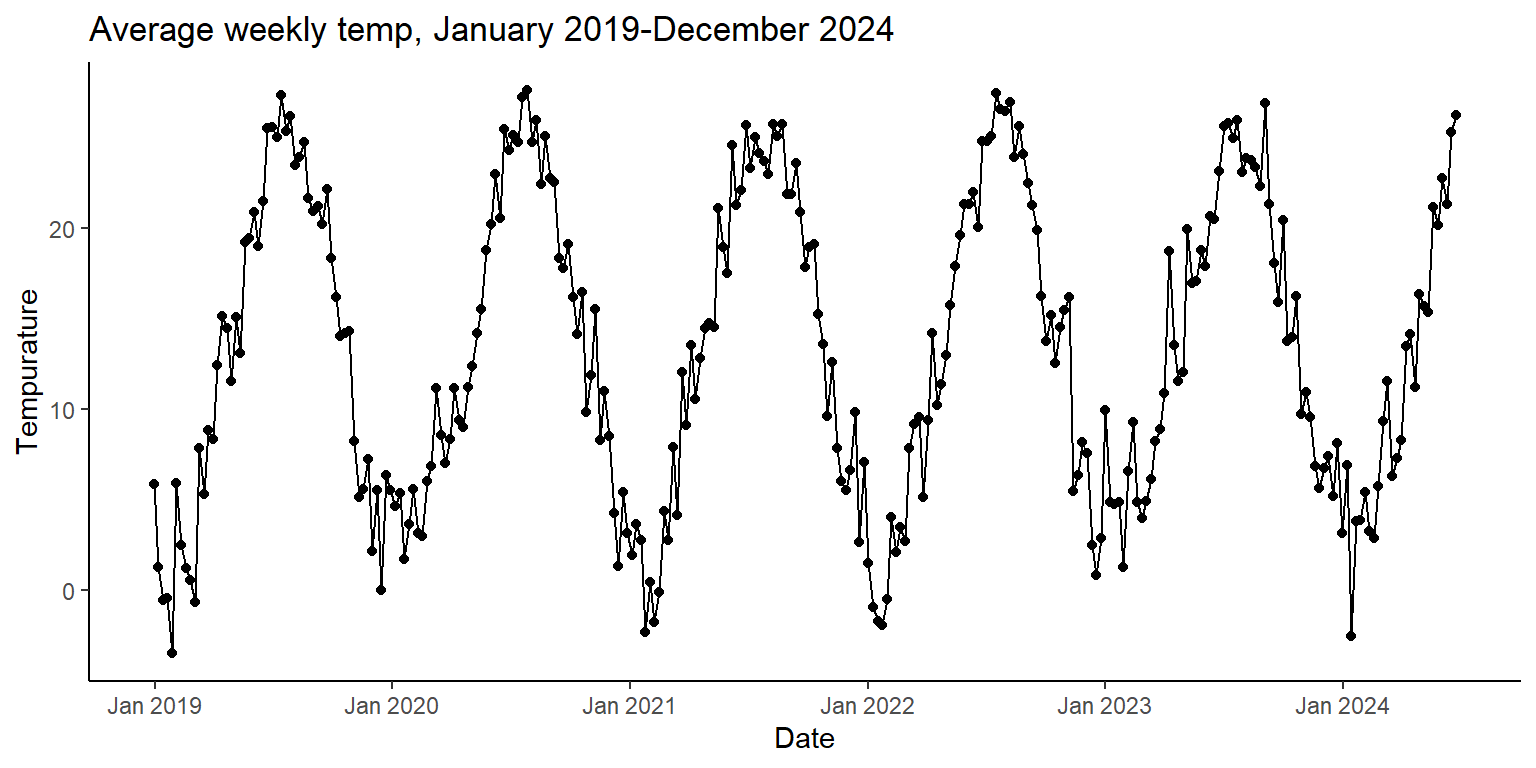
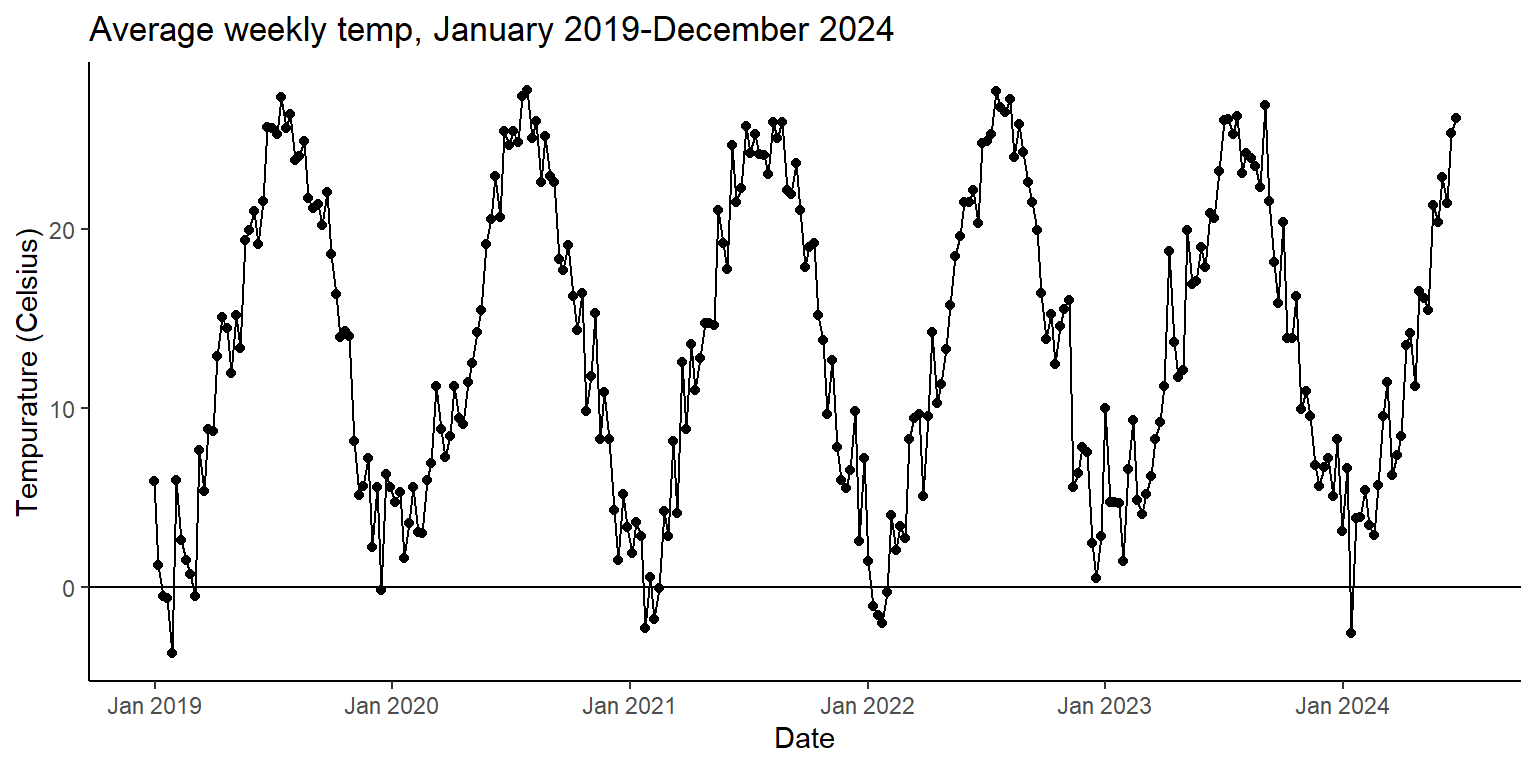
add heatmap

diff --git a/docs/data.html b/docs/data.html
@@ -20,6 +20,40 @@ ul.task-list li input[type="checkbox"] {
   margin: 0 0.8em 0.2em -1em; /* quarto-specific, see https://github.com/quarto-dev/quarto-cli/issues/4556 */ 
   vertical-align: middle;
 }
+/* CSS for syntax highlighting */
+pre > code.sourceCode { white-space: pre; position: relative; }
+pre > code.sourceCode > span { line-height: 1.25; }
+pre > code.sourceCode > span:empty { height: 1.2em; }
+.sourceCode { overflow: visible; }
+code.sourceCode > span { color: inherit; text-decoration: inherit; }
+div.sourceCode { margin: 1em 0; }
+pre.sourceCode { margin: 0; }
+@media screen {
+div.sourceCode { overflow: auto; }
+}
+@media print {
+pre > code.sourceCode { white-space: pre-wrap; }
+pre > code.sourceCode > span { display: inline-block; text-indent: -5em; padding-left: 5em; }
+}
+pre.numberSource code
+  { counter-reset: source-line 0; }
+pre.numberSource code > span
+  { position: relative; left: -4em; counter-increment: source-line; }
+pre.numberSource code > span > a:first-child::before
+  { content: counter(source-line);
+    position: relative; left: -1em; text-align: right; vertical-align: baseline;
+    border: none; display: inline-block;
+    -webkit-touch-callout: none; -webkit-user-select: none;
+    -khtml-user-select: none; -moz-user-select: none;
+    -ms-user-select: none; user-select: none;
+    padding: 0 4px; width: 4em;
+  }
+pre.numberSource { margin-left: 3em;  padding-left: 4px; }
+div.sourceCode
+  {   }
+@media screen {
+pre > code.sourceCode > span > a:first-child::before { text-decoration: underline; }
+}
 </style>
 
 
@@ -178,14 +212,58 @@ ul.task-list li input[type="checkbox"] {
 
 <section id="description" class="level2" data-number="2.1">
 <h2 data-number="2.1" class="anchored" data-anchor-id="description"><span class="header-section-number">2.1</span> Description</h2>
-<p>We are basing our analysis on two datasets, a dataset of taxi use in New York and historical weather data. For both datasets, we will limit our analysis to 2019–August 2024, in the interest of trying to catch about a year of pre-pandemic norms to help interpret pandemic and post-pandemic use of taxis.</p>
-<p>The taxi data are provided by New York’s <a href="https://www.nyc.gov/site/tlc/index.page">Taxi and Limousine Commission</a>. They <a href="https://www.nyc.gov/site/tlc/about/tlc-trip-record-data.page">provide taxi data</a>, in <a href="https://parquet.apache.org/">parquet</a> format, going back to 2009. Since February of 2019 they have also included data on trips serviced by companies like Lyft and Uber, which are classified as “high-volume for-hire vehicle” (HVFHV) trips. The data are updated monthly, with a two-month lag; however, at the time of submission, only data through August 2024 were available. Our focus is on yellow taxi and HVFHV trips, because our focus is on intra-Manhattan trips. Only yellow cabs can pick up passengers in most of Manhattan, so we are ignoring green cabs and regular for-hire vehicles (town cars and limousines). Yellow cab data have <a href="https://www.nyc.gov/assets/tlc/downloads/pdf/data_dictionary_trip_records_yellow.pdf">19 columns</a>, of which the pertient columns for us are pickup/dropoff date and time (<code>tpep_pickup_datetime</code>/<code>tpep_dropoff_datetime</code> in a datetime format), the pickup/dropoff locations (<code>PULocationID</code>/<code>DOLocationID</code> in integer format, corresponding to <a href="https://d37ci6vzurychx.cloudfront.net/misc/taxi_zone_lookup.csv">NYC taxi zones</a>) in order to filter on Manhattan-only trips, passenger count (<code>Passenger_count</code> in integer format), fare amount (<code>Fare_amount</code> in integer format), and tip amount (<code>Tip_amount</code> in integer format).</p>
-<p>The historical weather data are provided by the <a href="https://www.ncei.noaa.gov/products/global-historical-climatology-network-hourly">Global Historical Climate Network hourly (GHCNh)</a>, which provides hourly weather data going back over two centuries for New York City. We will be limiting ourselves to 2019–present, which comes in <a href="https://www.ncei.noaa.gov/oa/global-historical-climatology-network/index.html#hourly/access/by-year/">annual parquet files for download by station</a>. Our station, <code>KNYC0</code>, is listed in the GHCNh as <code>USW00094728</code>, and it is the weather station in Central Park. The data come in over 200 columns to account for the variability that can occur in the terse <a href="https://en.wikipedia.org/wiki/METAR">METAR</a> report for airplanes, which is also included under <code>remarks</code>. The government provides a <a href="https://www.ncei.noaa.gov/oa/global-historical-climatology-network/hourly/doc/ghcnh_DOCUMENTATION.pdf">codebook</a>. We may simply feed the reports to the <a href="https://github.com/python-metar/python-metar">python-metar</a> library, which parses the reports for us. As we are interested in what conditions determine a “nice” day for not using a taxi, we want to keep as much data from the weather report as possible, including temperature, precipitation, sky cover, snow, humidity, and so on.</p>
+<p>We are basing our analysis on two datasets, a dataset of taxi use in New York and historical weather data. For both datasets, we will limit our analysis to 2019-01-01 00:00:00 – 2024-06-25 23:00:00, in the interest of trying to catch about a year of pre-pandemic norms to help interpret pandemic and post-pandemic use of taxis. The taxi data only go to August, but the weather data only go through most of June this year. We are basing our analysis on two datasets, a dataset of taxi use in New York and historical weather data. For both datasets, we will limit our analysis to 2019–August 2024, in the interest of trying to catch about a year of pre-pandemic norms to help interpret pandemic and post-pandemic use of taxis.</p>
+<p>The taxi data are provided by New York’s <a href="https://www.nyc.gov/site/tlc/index.page">Taxi and Limousine Commission</a>. They <a href="https://www.nyc.gov/site/tlc/about/tlc-trip-record-data.page">provide taxi data</a>, in <a href="https://parquet.apache.org/">parquet</a> format, going back to 2009. Since February of 2019, they have also included data on trips serviced by companies like Lyft and Uber, which are classified as “high-volume for-hire vehicle” (HVFHV) trips. The data are updated monthly, with a two-month lag. Our focus is on yellow taxi and HVFHV trips, because our focus is on intra-Manhattan trips. Only yellow cabs can pick up passengers in most of Manhattan, so we are ignoring green cabs and regular for-hire vehicles (town cars and limousines). Yellow cab data have <a href="https://www.nyc.gov/assets/tlc/downloads/pdf/data_dictionary_trip_records_yellow.pdf">19 columns</a>, and FHVHV data have <a href="https://www.nyc.gov/assets/tlc/downloads/pdf/data_dictionary_trip_records_hvfhs.pdf">24 columns</a>. With our Python scripts, we consolidate the data to create aggregated hourly statistics on trip duration, trip distance, fare amount, and tip amount. The taxi data are provided by New York’s <a href="https://www.nyc.gov/site/tlc/index.page">Taxi and Limousine Commission</a>. They <a href="https://www.nyc.gov/site/tlc/about/tlc-trip-record-data.page">provide taxi data</a>, in <a href="https://parquet.apache.org/">parquet</a> format, going back to 2009. Since February of 2019 they have also included data on trips serviced by companies like Lyft and Uber, which are classified as “high-volume for-hire vehicle” (HVFHV) trips. The data are updated monthly, with a two-month lag; however, at the time of submission, only data through August 2024 were available. Our focus is on yellow taxi and HVFHV trips, because our focus is on intra-Manhattan trips. Only yellow cabs can pick up passengers in most of Manhattan, so we are ignoring green cabs and regular for-hire vehicles (town cars and limousines). Yellow cab data have <a href="https://www.nyc.gov/assets/tlc/downloads/pdf/data_dictionary_trip_records_yellow.pdf">19 columns</a>, of which the pertient columns for us are pickup/dropoff date and time (<code>tpep_pickup_datetime</code>/<code>tpep_dropoff_datetime</code> in a datetime format), the pickup/dropoff locations (<code>PULocationID</code>/<code>DOLocationID</code> in integer format, corresponding to <a href="https://d37ci6vzurychx.cloudfront.net/misc/taxi_zone_lookup.csv">NYC taxi zones</a>) in order to filter on Manhattan-only trips, passenger count (<code>Passenger_count</code> in integer format), fare amount (<code>Fare_amount</code> in integer format), and tip amount (<code>Tip_amount</code> in integer format).</p>
+<p>The historical weather data are provided by the <a href="https://www.ncei.noaa.gov/products/global-historical-climatology-network-hourly">Global Historical Climate Network hourly (GHCNh)</a>, which provides hourly weather data going back over two centuries for New York City. The data come in <a href="https://www.ncei.noaa.gov/oa/global-historical-climatology-network/index.html#hourly/access/by-year/">annual parquet files for download by station</a>. Our station, <code>KNYC0</code>, is listed in the GHCNh as <code>USW00094728</code>, and it is the weather station in Central Park. The data come in over 200 columns to account for the variability that can occur in the terse <a href="https://en.wikipedia.org/wiki/METAR">METAR</a> report for airplanes, which is also included under <code>remarks</code>. The government provides a <a href="https://www.ncei.noaa.gov/oa/global-historical-climatology-network/hourly/doc/ghcnh_DOCUMENTATION.pdf">codebook</a> to describe the remaining data. As we are interested in what conditions determine a “nice” day for not using a taxi, we want to keep as much data from the weather report as possible, including temperature, precipitation, sky cover, snow, humidity, and so on. The historical weather data are provided by the <a href="https://www.ncei.noaa.gov/products/global-historical-climatology-network-hourly">Global Historical Climate Network hourly (GHCNh)</a>, which provides hourly weather data going back over two centuries for New York City. We will be limiting ourselves to 2019–present, which comes in <a href="https://www.ncei.noaa.gov/oa/global-historical-climatology-network/index.html#hourly/access/by-year/">annual parquet files for download by station</a>. Our station, <code>KNYC0</code>, is listed in the GHCNh as <code>USW00094728</code>, and it is the weather station in Central Park. The data come in over 200 columns to account for the variability that can occur in the terse <a href="https://en.wikipedia.org/wiki/METAR">METAR</a> report for airplanes, which is also included under <code>remarks</code>. The government provides a <a href="https://www.ncei.noaa.gov/oa/global-historical-climatology-network/hourly/doc/ghcnh_DOCUMENTATION.pdf">codebook</a>. We may simply feed the reports to the <a href="https://github.com/python-metar/python-metar">python-metar</a> library, which parses the reports for us. As we are interested in what conditions determine a “nice” day for not using a taxi, we want to keep as much data from the weather report as possible, including temperature, precipitation, sky cover, snow, humidity, and so on.</p>
 </section>
 <section id="missing-value-analysis" class="level2" data-number="2.2">
 <h2 data-number="2.2" class="anchored" data-anchor-id="missing-value-analysis"><span class="header-section-number">2.2</span> Missing value analysis</h2>
+<p>The taxi data is notoriously (as in, persistently) messy, registering trips outside the bounds of the asserted date and giving results that seem extremely unlikely, like</p>
 <p>Describe any patterns you discover in missing values. If no values are missing, graphs should still be included showing that.</p>
 <p>(suggested: 2 graphs plus commentary)</p>
+<div class="cell">
+<details class="code-fold">
+<summary>Code</summary>
+<div class="sourceCode cell-code" id="cb1"><pre class="sourceCode r code-with-copy"><code class="sourceCode r"><span id="cb1-1"><a href="#cb1-1" aria-hidden="true" tabindex="-1"></a><span class="fu">library</span>(ggplot2)</span>
+<span id="cb1-2"><a href="#cb1-2" aria-hidden="true" tabindex="-1"></a><span class="fu">library</span>(arrow)</span>
+<span id="cb1-3"><a href="#cb1-3" aria-hidden="true" tabindex="-1"></a><span class="fu">library</span>(dplyr)</span>
+<span id="cb1-4"><a href="#cb1-4" aria-hidden="true" tabindex="-1"></a><span class="fu">library</span>(lubridate)</span>
+<span id="cb1-5"><a href="#cb1-5" aria-hidden="true" tabindex="-1"></a><span class="fu">library</span>(scales)</span>
+<span id="cb1-6"><a href="#cb1-6" aria-hidden="true" tabindex="-1"></a><span class="fu">library</span>(tidyr)</span>
+<span id="cb1-7"><a href="#cb1-7" aria-hidden="true" tabindex="-1"></a>df <span class="ot">&lt;-</span> <span class="fu">read_parquet</span>(<span class="st">"data/complete_weather_and_taxi_data.parquet"</span>)</span></code><button title="Copy to Clipboard" class="code-copy-button"><i class="bi"></i></button></pre></div>
+</details>
+</div>
+<div class="cell">
+<details class="code-fold">
+<summary>Code</summary>
+<div class="sourceCode cell-code" id="cb2"><pre class="sourceCode r code-with-copy"><code class="sourceCode r"><span id="cb2-1"><a href="#cb2-1" aria-hidden="true" tabindex="-1"></a>heatmap_data <span class="ot">&lt;-</span> df <span class="sc">|&gt;</span></span>
+<span id="cb2-2"><a href="#cb2-2" aria-hidden="true" tabindex="-1"></a>    <span class="fu">mutate</span>(<span class="at">week_start=</span>lubridate<span class="sc">::</span><span class="fu">floor_date</span>(date, <span class="at">unit=</span><span class="st">"week"</span>),</span>
+<span id="cb2-3"><a href="#cb2-3" aria-hidden="true" tabindex="-1"></a>        <span class="at">week =</span> lubridate<span class="sc">::</span><span class="fu">week</span>(date),</span>
+<span id="cb2-4"><a href="#cb2-4" aria-hidden="true" tabindex="-1"></a>        <span class="at">year =</span> lubridate<span class="sc">::</span><span class="fu">year</span>(date)) <span class="sc">|&gt;</span></span>
+<span id="cb2-5"><a href="#cb2-5" aria-hidden="true" tabindex="-1"></a>    <span class="fu">group_by</span>(year, week) <span class="sc">|&gt;</span></span>
+<span id="cb2-6"><a href="#cb2-6" aria-hidden="true" tabindex="-1"></a>    <span class="fu">summarize</span>(<span class="at">n_missing=</span><span class="fu">sum</span>(<span class="fu">is.na</span>(temperature)))</span>
+<span id="cb2-7"><a href="#cb2-7" aria-hidden="true" tabindex="-1"></a></span>
+<span id="cb2-8"><a href="#cb2-8" aria-hidden="true" tabindex="-1"></a><span class="fu">ggplot</span>(heatmap_data, <span class="fu">aes</span>(<span class="at">x =</span> week, <span class="at">y =</span> year, <span class="at">fill =</span> n_missing)) <span class="sc">+</span></span>
+<span id="cb2-9"><a href="#cb2-9" aria-hidden="true" tabindex="-1"></a>  <span class="fu">geom_tile</span>(<span class="at">color =</span> <span class="st">"white"</span>) <span class="sc">+</span></span>
+<span id="cb2-10"><a href="#cb2-10" aria-hidden="true" tabindex="-1"></a>  <span class="fu">scale_fill_gradient</span>(<span class="at">low =</span> <span class="st">"white"</span>, <span class="at">high =</span> <span class="st">"red"</span>, <span class="at">name =</span> <span class="st">"Missing Count"</span>) <span class="sc">+</span></span>
+<span id="cb2-11"><a href="#cb2-11" aria-hidden="true" tabindex="-1"></a>  <span class="fu">scale_x_continuous</span>(<span class="at">breaks =</span> <span class="fu">seq</span>(<span class="dv">1</span>, <span class="dv">52</span>, <span class="at">by =</span> <span class="dv">4</span>)) <span class="sc">+</span> </span>
+<span id="cb2-12"><a href="#cb2-12" aria-hidden="true" tabindex="-1"></a>  <span class="fu">scale_y_continuous</span>(<span class="at">breaks =</span> <span class="fu">seq</span>(<span class="dv">2019</span>, <span class="dv">2024</span>, <span class="at">by=</span><span class="dv">1</span>))<span class="sc">+</span></span>
+<span id="cb2-13"><a href="#cb2-13" aria-hidden="true" tabindex="-1"></a>  <span class="fu">labs</span>(</span>
+<span id="cb2-14"><a href="#cb2-14" aria-hidden="true" tabindex="-1"></a>    <span class="at">title =</span> <span class="st">"Number of missing temperature observations by date"</span>,</span>
+<span id="cb2-15"><a href="#cb2-15" aria-hidden="true" tabindex="-1"></a>    <span class="at">x =</span> <span class="st">"Week"</span>,</span>
+<span id="cb2-16"><a href="#cb2-16" aria-hidden="true" tabindex="-1"></a>    <span class="at">y =</span> <span class="st">"Year"</span></span>
+<span id="cb2-17"><a href="#cb2-17" aria-hidden="true" tabindex="-1"></a>  ) <span class="sc">+</span></span>
+<span id="cb2-18"><a href="#cb2-18" aria-hidden="true" tabindex="-1"></a>  <span class="fu">theme_classic</span>() <span class="sc">+</span></span>
+<span id="cb2-19"><a href="#cb2-19" aria-hidden="true" tabindex="-1"></a>  <span class="fu">theme</span>(<span class="at">axis.text.x =</span> <span class="fu">element_text</span>(<span class="at">angle =</span> <span class="dv">45</span>, <span class="at">hjust =</span> <span class="dv">1</span>))</span></code><button title="Copy to Clipboard" class="code-copy-button"><i class="bi"></i></button></pre></div>
+</details>
+<div class="cell-output-display">
+<div>
+<figure class="figure">
+<p><img src="data_files/figure-html/unnamed-chunk-2-1.png" class="img-fluid figure-img" width="672"></p>
+</figure>
+</div>
+</div>
+</div>
 
 
 </section>

diff --git a/docs/index.html b/docs/index.html
@@ -285,67 +285,17 @@ pre > code.sourceCode > span > a:first-child::before { text-decoration: underlin
 <span id="cb3-10"><a href="#cb3-10" aria-hidden="true" tabindex="-1"></a>    <span class="fu">ggplot</span>(<span class="fu">aes</span>(<span class="at">x=</span>week_start, <span class="at">y=</span>avg_temp_day), <span class="at">color=</span><span class="st">"salmon"</span>) <span class="sc">+</span></span>
 <span id="cb3-11"><a href="#cb3-11" aria-hidden="true" tabindex="-1"></a>        <span class="fu">geom_point</span>() <span class="sc">+</span></span>
 <span id="cb3-12"><a href="#cb3-12" aria-hidden="true" tabindex="-1"></a>        <span class="fu">geom_line</span>() <span class="sc">+</span> </span>
-<span id="cb3-13"><a href="#cb3-13" aria-hidden="true" tabindex="-1"></a>        <span class="fu">scale_x_date</span>(<span class="at">date_labels =</span> <span class="st">"%b %Y"</span>, <span class="at">date_breaks =</span> <span class="st">"1 year"</span>) <span class="sc">+</span></span>
-<span id="cb3-14"><a href="#cb3-14" aria-hidden="true" tabindex="-1"></a>        <span class="fu">labs</span>(<span class="at">title=</span><span class="st">"Average weekly temp, January 2019-December 2024"</span>,</span>
-<span id="cb3-15"><a href="#cb3-15" aria-hidden="true" tabindex="-1"></a>             <span class="at">x =</span> <span class="st">"Date"</span>, </span>
-<span id="cb3-16"><a href="#cb3-16" aria-hidden="true" tabindex="-1"></a>             <span class="at">y =</span> <span class="st">"Tempurature"</span>) <span class="sc">+</span></span>
-<span id="cb3-17"><a href="#cb3-17" aria-hidden="true" tabindex="-1"></a>        <span class="fu">theme_classic</span>()</span></code><button title="Copy to Clipboard" class="code-copy-button"><i class="bi"></i></button></pre></div>
+<span id="cb3-13"><a href="#cb3-13" aria-hidden="true" tabindex="-1"></a>        <span class="fu">geom_hline</span>(<span class="at">yintercept=</span><span class="dv">0</span>)<span class="sc">+</span></span>
+<span id="cb3-14"><a href="#cb3-14" aria-hidden="true" tabindex="-1"></a>        <span class="fu">scale_x_date</span>(<span class="at">date_labels =</span> <span class="st">"%b %Y"</span>, <span class="at">date_breaks =</span> <span class="st">"1 year"</span>) <span class="sc">+</span></span>
+<span id="cb3-15"><a href="#cb3-15" aria-hidden="true" tabindex="-1"></a>        <span class="fu">labs</span>(<span class="at">title=</span><span class="st">"Average weekly temp, January 2019-December 2024"</span>,</span>
+<span id="cb3-16"><a href="#cb3-16" aria-hidden="true" tabindex="-1"></a>             <span class="at">x =</span> <span class="st">"Date"</span>, </span>
+<span id="cb3-17"><a href="#cb3-17" aria-hidden="true" tabindex="-1"></a>             <span class="at">y =</span> <span class="st">"Tempurature (Celsius)"</span>) <span class="sc">+</span></span>
+<span id="cb3-18"><a href="#cb3-18" aria-hidden="true" tabindex="-1"></a>        <span class="fu">theme_classic</span>()</span></code><button title="Copy to Clipboard" class="code-copy-button"><i class="bi"></i></button></pre></div>
 </details>
 <div class="cell-output-display">
 <div>
 <figure class="figure">
 <p><img src="index_files/figure-html/unnamed-chunk-3-1.png" class="img-fluid figure-img" width="768"></p>
-</figure>
-</div>
-</div>
-</div>
-<div class="cell">
-<details class="code-fold">
-<summary>Code</summary>
-<div class="sourceCode cell-code" id="cb4"><pre class="sourceCode r code-with-copy"><code class="sourceCode r"><span id="cb4-1"><a href="#cb4-1" aria-hidden="true" tabindex="-1"></a><span class="co"># print(df |&gt; filter(is.na(temperature)))</span></span>
-<span id="cb4-2"><a href="#cb4-2" aria-hidden="true" tabindex="-1"></a><span class="co"># df |&gt; filter(is.na(temperature)) |&gt;</span></span>
-<span id="cb4-3"><a href="#cb4-3" aria-hidden="true" tabindex="-1"></a><span class="co">#     mutate(week_start=lubridate::floor_date(date, unit="week"))|&gt;</span></span>
-<span id="cb4-4"><a href="#cb4-4" aria-hidden="true" tabindex="-1"></a><span class="co">#     group_by(week_start)|&gt;</span></span>
-<span id="cb4-5"><a href="#cb4-5" aria-hidden="true" tabindex="-1"></a><span class="co">#     summarize(count_na=n()) |&gt;</span></span>
-<span id="cb4-6"><a href="#cb4-6" aria-hidden="true" tabindex="-1"></a><span class="co">#     print(n=55)</span></span>
-<span id="cb4-7"><a href="#cb4-7" aria-hidden="true" tabindex="-1"></a><span class="co"># df |&gt; filter(is.na(temperature)) |&gt;</span></span>
-<span id="cb4-8"><a href="#cb4-8" aria-hidden="true" tabindex="-1"></a><span class="co">#     mutate(week_start=lubridate::floor_date(date, unit="week"))|&gt;</span></span>
-<span id="cb4-9"><a href="#cb4-9" aria-hidden="true" tabindex="-1"></a><span class="co">#     filter(week_start==as.Date("2019-04-14")) |&gt;</span></span>
-<span id="cb4-10"><a href="#cb4-10" aria-hidden="true" tabindex="-1"></a><span class="co">#     print(n=47)</span></span></code><button title="Copy to Clipboard" class="code-copy-button"><i class="bi"></i></button></pre></div>
-</details>
-</div>
-<div class="cell">
-<details class="code-fold">
-<summary>Code</summary>
-<div class="sourceCode cell-code" id="cb5"><pre class="sourceCode r code-with-copy"><code class="sourceCode r"><span id="cb5-1"><a href="#cb5-1" aria-hidden="true" tabindex="-1"></a>heatmap_data <span class="ot">&lt;-</span> df <span class="sc">|&gt;</span></span>
-<span id="cb5-2"><a href="#cb5-2" aria-hidden="true" tabindex="-1"></a>    <span class="fu">mutate</span>(<span class="at">week_start=</span>lubridate<span class="sc">::</span><span class="fu">floor_date</span>(date, <span class="at">unit=</span><span class="st">"week"</span>),</span>
-<span id="cb5-3"><a href="#cb5-3" aria-hidden="true" tabindex="-1"></a>        <span class="at">week =</span> lubridate<span class="sc">::</span><span class="fu">week</span>(date),</span>
-<span id="cb5-4"><a href="#cb5-4" aria-hidden="true" tabindex="-1"></a>        <span class="at">year =</span> lubridate<span class="sc">::</span><span class="fu">year</span>(date)) <span class="sc">|&gt;</span></span>
-<span id="cb5-5"><a href="#cb5-5" aria-hidden="true" tabindex="-1"></a>    <span class="fu">group_by</span>(year, week) <span class="sc">|&gt;</span></span>
-<span id="cb5-6"><a href="#cb5-6" aria-hidden="true" tabindex="-1"></a>    <span class="fu">summarize</span>(<span class="at">n_missing=</span><span class="fu">sum</span>(<span class="fu">is.na</span>(temperature)))</span></code><button title="Copy to Clipboard" class="code-copy-button"><i class="bi"></i></button></pre></div>
-</details>
-<div class="cell-output cell-output-stderr">
-<pre><code>`summarise()` has grouped output by 'year'. You can override using the
-`.groups` argument.</code></pre>
-</div>
-<details class="code-fold">
-<summary>Code</summary>
-<div class="sourceCode cell-code" id="cb7"><pre class="sourceCode r code-with-copy"><code class="sourceCode r"><span id="cb7-1"><a href="#cb7-1" aria-hidden="true" tabindex="-1"></a><span class="fu">ggplot</span>(heatmap_data, <span class="fu">aes</span>(<span class="at">x =</span> week, <span class="at">y =</span> year, <span class="at">fill =</span> n_missing)) <span class="sc">+</span></span>
-<span id="cb7-2"><a href="#cb7-2" aria-hidden="true" tabindex="-1"></a>  <span class="fu">geom_tile</span>(<span class="at">color =</span> <span class="st">"white"</span>) <span class="sc">+</span></span>
-<span id="cb7-3"><a href="#cb7-3" aria-hidden="true" tabindex="-1"></a>  <span class="fu">scale_fill_gradient</span>(<span class="at">low =</span> <span class="st">"white"</span>, <span class="at">high =</span> <span class="st">"red"</span>, <span class="at">name =</span> <span class="st">"Missing Count"</span>) <span class="sc">+</span></span>
-<span id="cb7-4"><a href="#cb7-4" aria-hidden="true" tabindex="-1"></a>  <span class="fu">scale_x_continuous</span>(<span class="at">breaks =</span> <span class="fu">seq</span>(<span class="dv">1</span>, <span class="dv">52</span>, <span class="at">by =</span> <span class="dv">4</span>)) <span class="sc">+</span>  <span class="co"># Adjust x-axis ticks</span></span>
-<span id="cb7-5"><a href="#cb7-5" aria-hidden="true" tabindex="-1"></a>  <span class="fu">labs</span>(</span>
-<span id="cb7-6"><a href="#cb7-6" aria-hidden="true" tabindex="-1"></a>    <span class="at">title =</span> <span class="st">"Heatmap of Missing Data"</span>,</span>
-<span id="cb7-7"><a href="#cb7-7" aria-hidden="true" tabindex="-1"></a>    <span class="at">x =</span> <span class="st">"Week"</span>,</span>
-<span id="cb7-8"><a href="#cb7-8" aria-hidden="true" tabindex="-1"></a>    <span class="at">y =</span> <span class="st">"Year"</span></span>
-<span id="cb7-9"><a href="#cb7-9" aria-hidden="true" tabindex="-1"></a>  ) <span class="sc">+</span></span>
-<span id="cb7-10"><a href="#cb7-10" aria-hidden="true" tabindex="-1"></a>  <span class="fu">theme_minimal</span>() <span class="sc">+</span></span>
-<span id="cb7-11"><a href="#cb7-11" aria-hidden="true" tabindex="-1"></a>  <span class="fu">theme</span>(<span class="at">axis.text.x =</span> <span class="fu">element_text</span>(<span class="at">angle =</span> <span class="dv">45</span>, <span class="at">hjust =</span> <span class="dv">1</span>))</span></code><button title="Copy to Clipboard" class="code-copy-button"><i class="bi"></i></button></pre></div>
-</details>
-<div class="cell-output-display">
-<div>
-<figure class="figure">
-<p><img src="index_files/figure-html/unnamed-chunk-5-1.png" class="img-fluid figure-img" width="672"></p>
 </figure>
 </div>
 </div>
